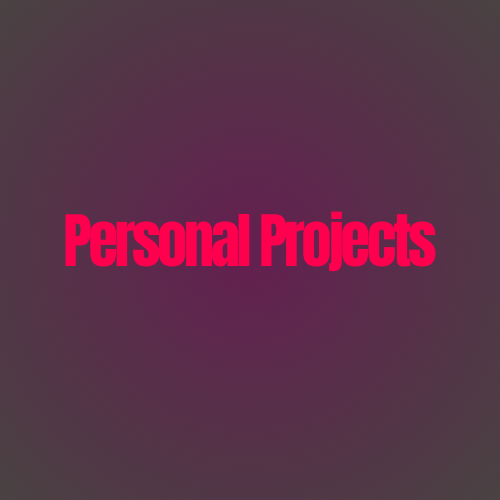
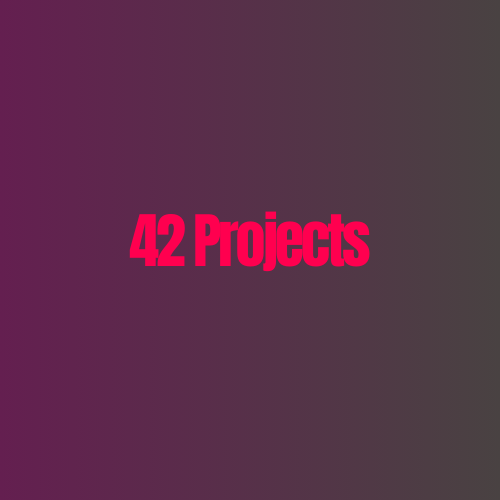
made the middle box of the main page into 42 projects, need to make the third box have a hackathon image

Changed region(s): [[0.12, 0.42, 0.87, 0.54], [0.0, 0.51, 0.18, 1.0], [0.0, 0.0, 0.15, 0.48]]

diff --git a/index.html b/index.html
@@ -104,18 +104,16 @@
 			<div class="work">
 				<img src="images/work-2.png">
 				<div class="layer">
-					<h3>This is still a WIP!</h3>
-					<p>I plan to create a Horror game, or maybe a 2D Game, or maybe a mix of both!</p>
+					<h3>Notable Projects from 42 Cursus</h3>
+					<p>These are some projects given to me in the 42 curriculum where I believe I did an impressive job!</p>
 					<a href="42Projects.html"><i class="fa-solid fa-arrow-up-right-from-square" style="color: #3d09d7;"></i></a>
 				</div>
 			</div>
 			<div class="work">
 				<img src="images/work-3.png">
 				<div class="layer">
-					<h3>42 Cursus</h3>
-					<p>Here you'll be able to find everything I've done at my time at 42 Abu Dhabi from the Piscine all the way
-						to the Common Core! This link will take you to my most recent finished project! Other projects can be found
-						with the suffix "42"!</p>
+					<h3>Hackathons</h3>
+					<p>Hackathon stuff! (finish this)</p>
 					<a href="https://github.com/ahaarij?tab=repositories"><i class="fa-brands fa-github" style="color: #3d09d7;"></i></a>
 				</div>
 			</div>
